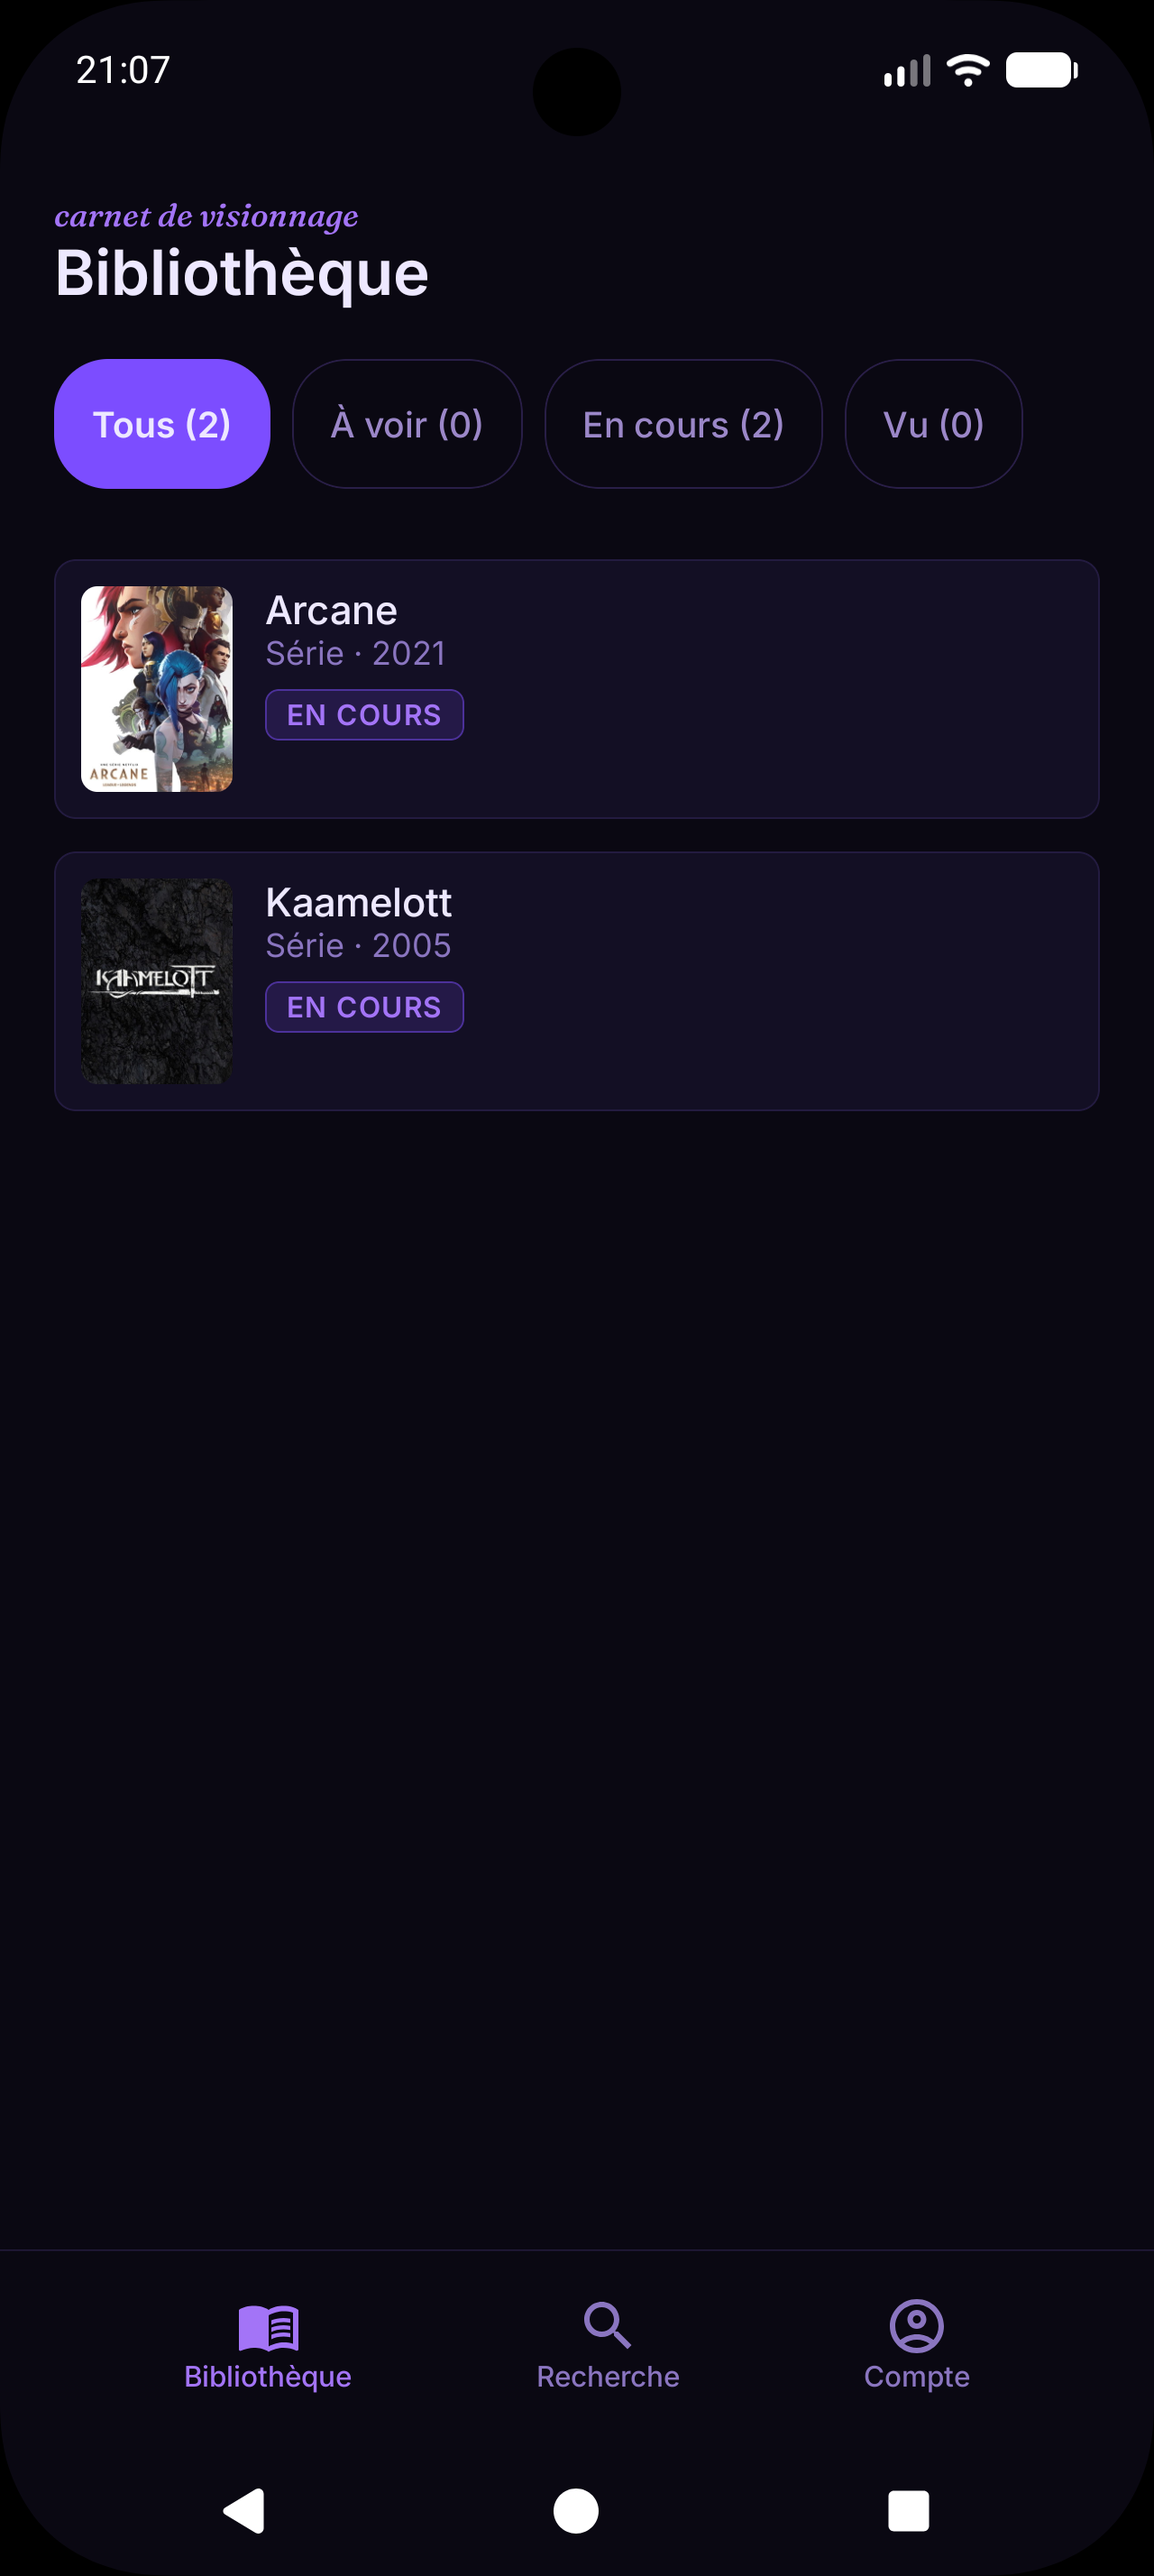
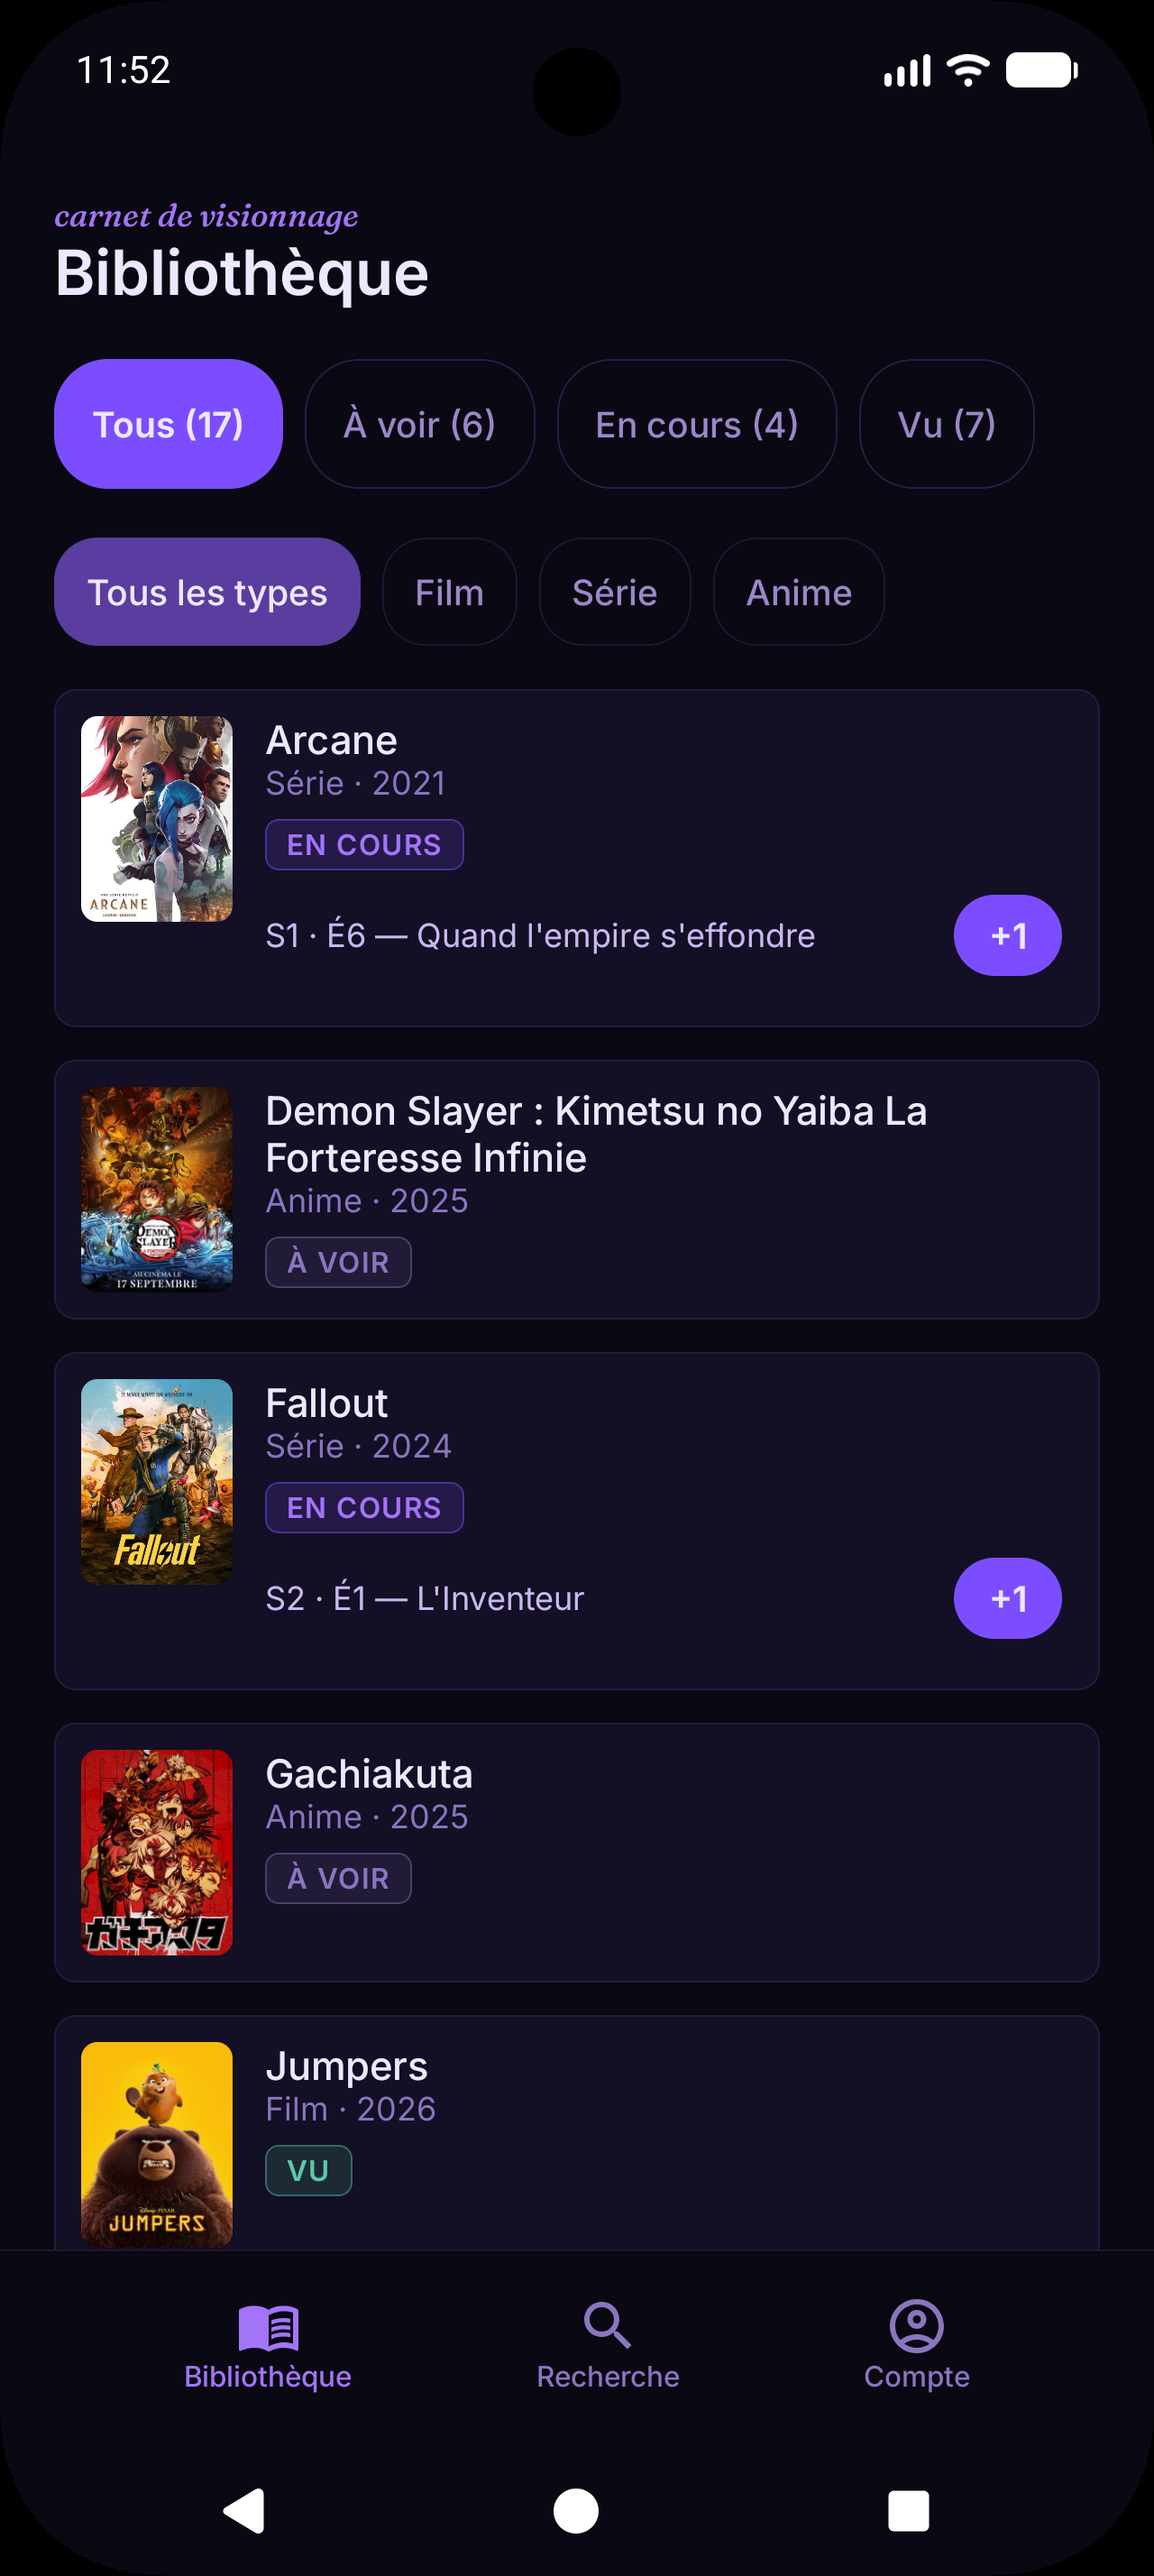
docs: mise à jour du README

diff --git a/README.md b/README.md
@@ -30,6 +30,11 @@ optionnelle avec un serveur Jellyfin.
 
 - **Bibliothèque** : liste du suivi avec statut visuel (À voir / En cours / Vu), films, séries et
   anime confondus.
+- **Prochain épisode et « +1 »** : sur la carte d'une série ou d'un anime En cours, l'épisode non vu
+  suivant (« S2 · É5 — titre ») avec un bouton « +1 » qui le marque vu d'un tap. Un épisode pas encore
+  diffusé affiche sa date de sortie à la place. Cocher le premier épisode passe un contenu À voir
+  en En cours ; atteindre le dernier épisode d'une série terminée le passe en Vu. Fonctionne hors
+  ligne.
 - **Recherche** : recherche multi-type via l'[API TMDB](https://www.themoviedb.org/documentation/api)
   (titre, affiche, année), aperçu de la fiche avant ajout, ajout en un tap au suivi. Fiches en
   français en priorité, avec fallback sur l'anglais quand la traduction française manque.
@@ -246,7 +251,7 @@ dépendances (pas de mocking ni de Robolectric), pour des tests rapides et déte
 ```
 app/src/main/java/fr/cklla/pellicule/
 ├── data/
-│   ├── local/          # Room : entités, DAO, base de données, session Jellyfin chiffrée
+│   ├── local/          # Room : entités, DAO, base de données, cache des métadonnées de séries, session Jellyfin chiffrée
 │   ├── remote/
 │   │   ├── dto/        # Réponses API TMDB
 │   │   ├── firestore/  # Source de données Firestore + mapping
@@ -255,7 +260,8 @@ app/src/main/java/fr/cklla/pellicule/
 ├── di/                  # Modules Hilt
 ├── domain/
 │   ├── model/           # Modèles métier (Media, WatchStatus, Resource, AuthUser…)
-│   └── repository/      # Interfaces de repository
+│   ├── repository/      # Interfaces de repository
+│   └── usecase/         # Cas d'usage partagés (cocher un épisode)
 └── ui/
     ├── bibliotheque/    # Écran Bibliothèque
     ├── detail/          # Écran Détail d'un contenu (statut, épisodes, note)
